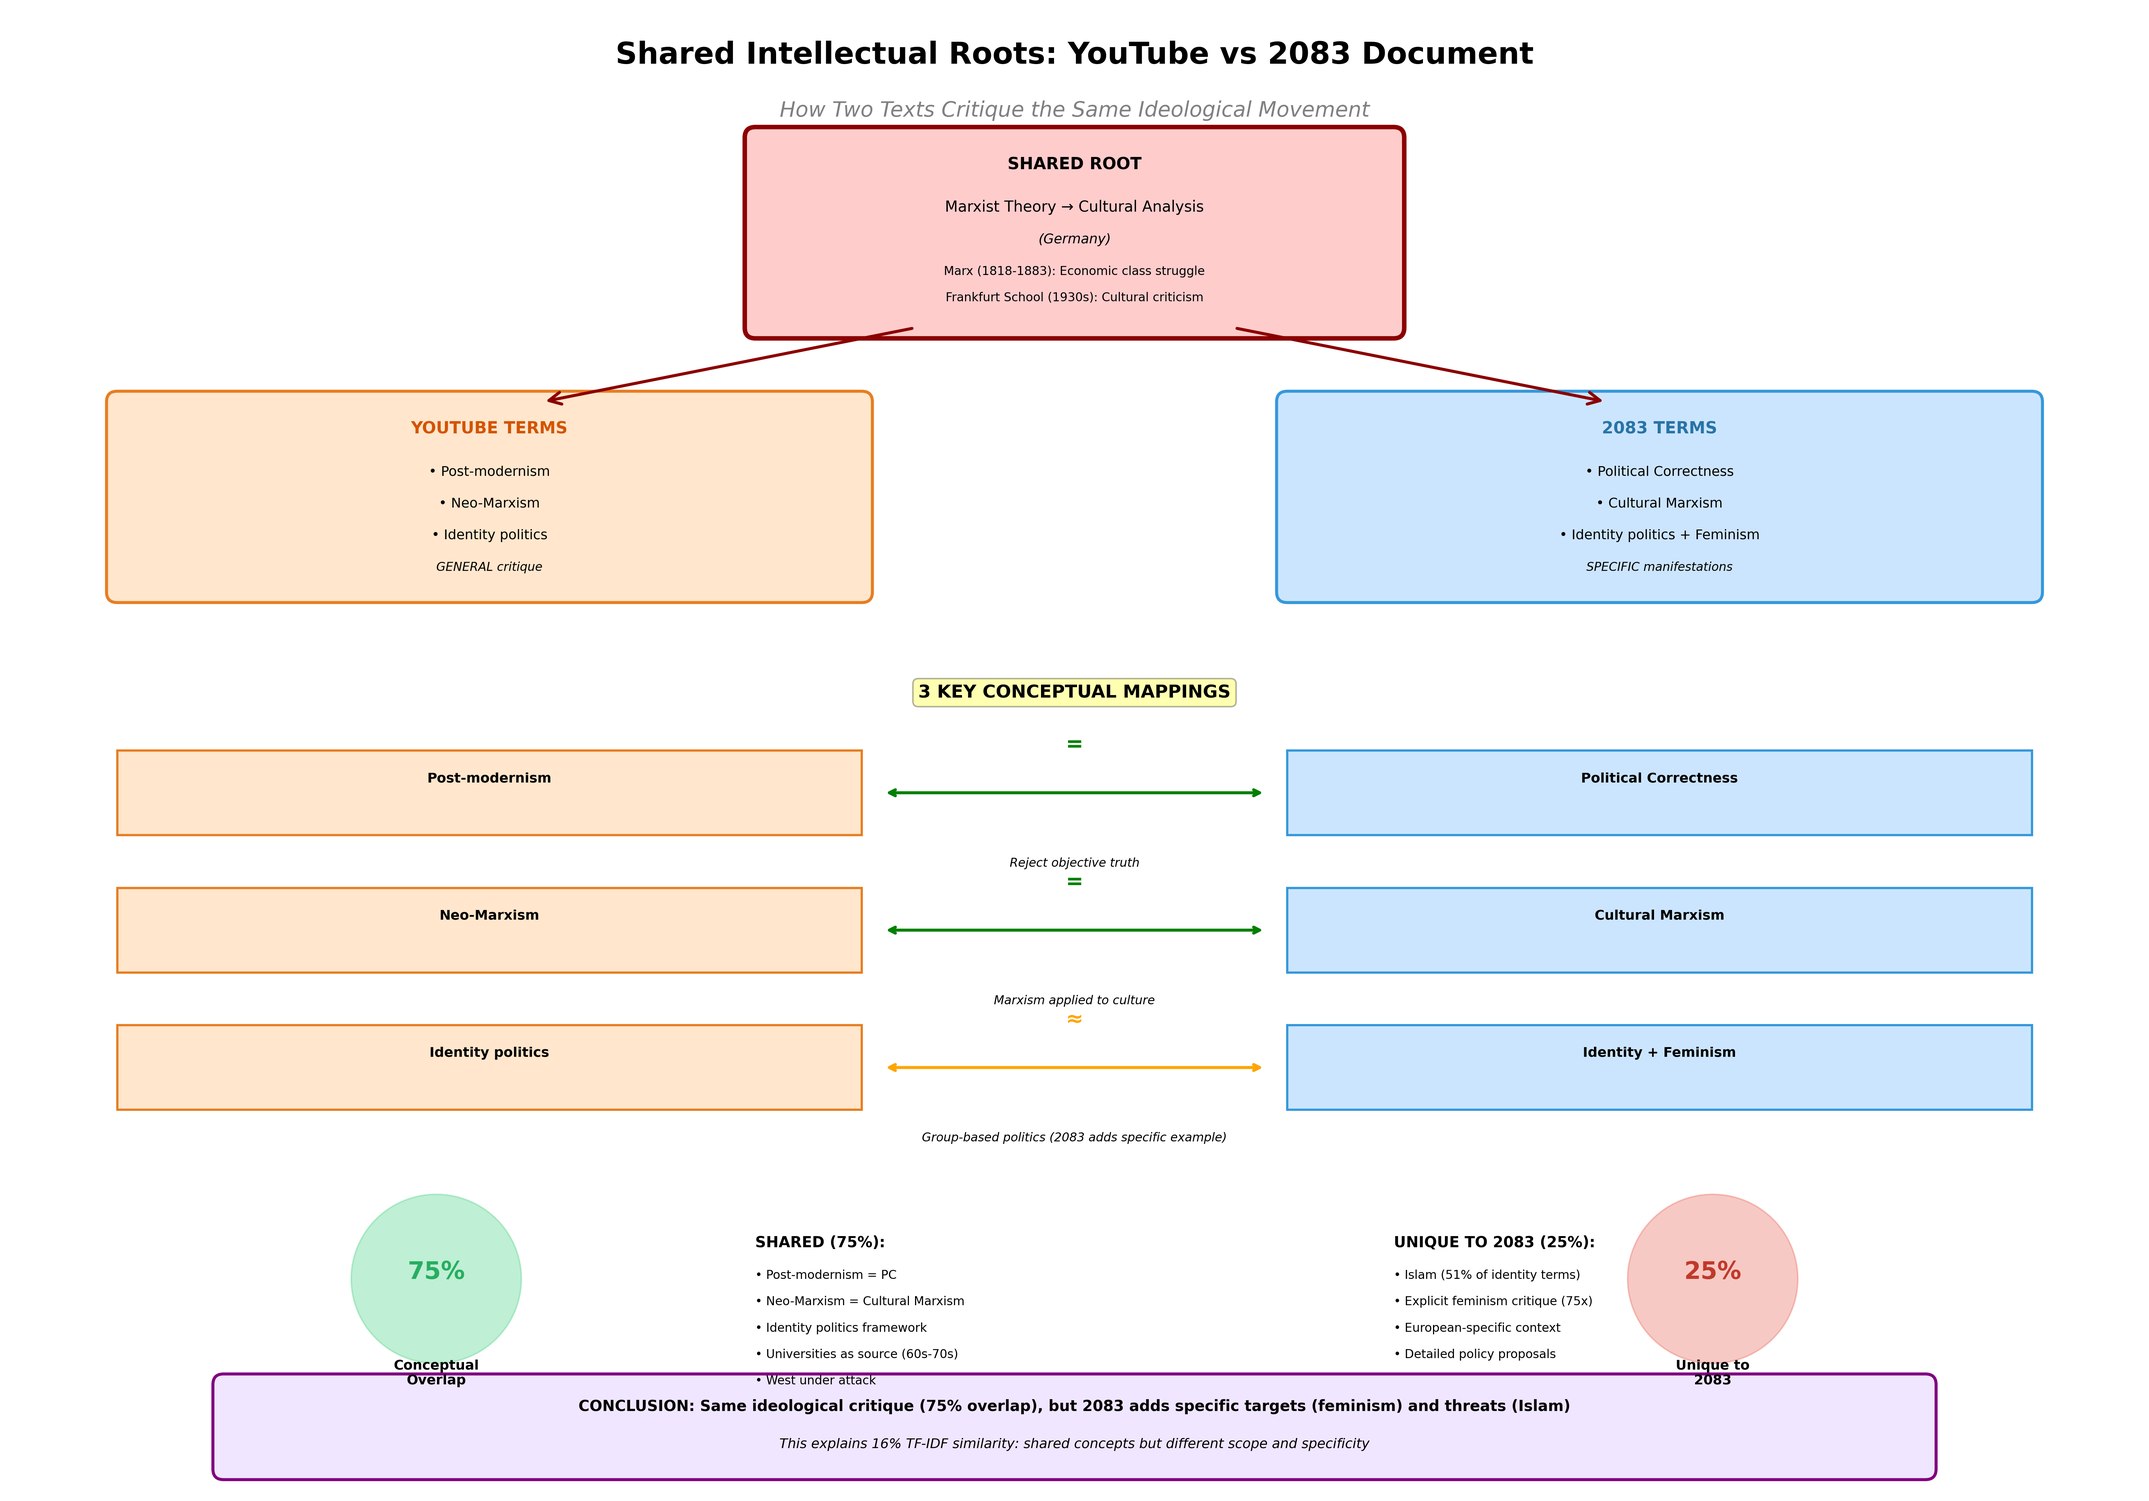
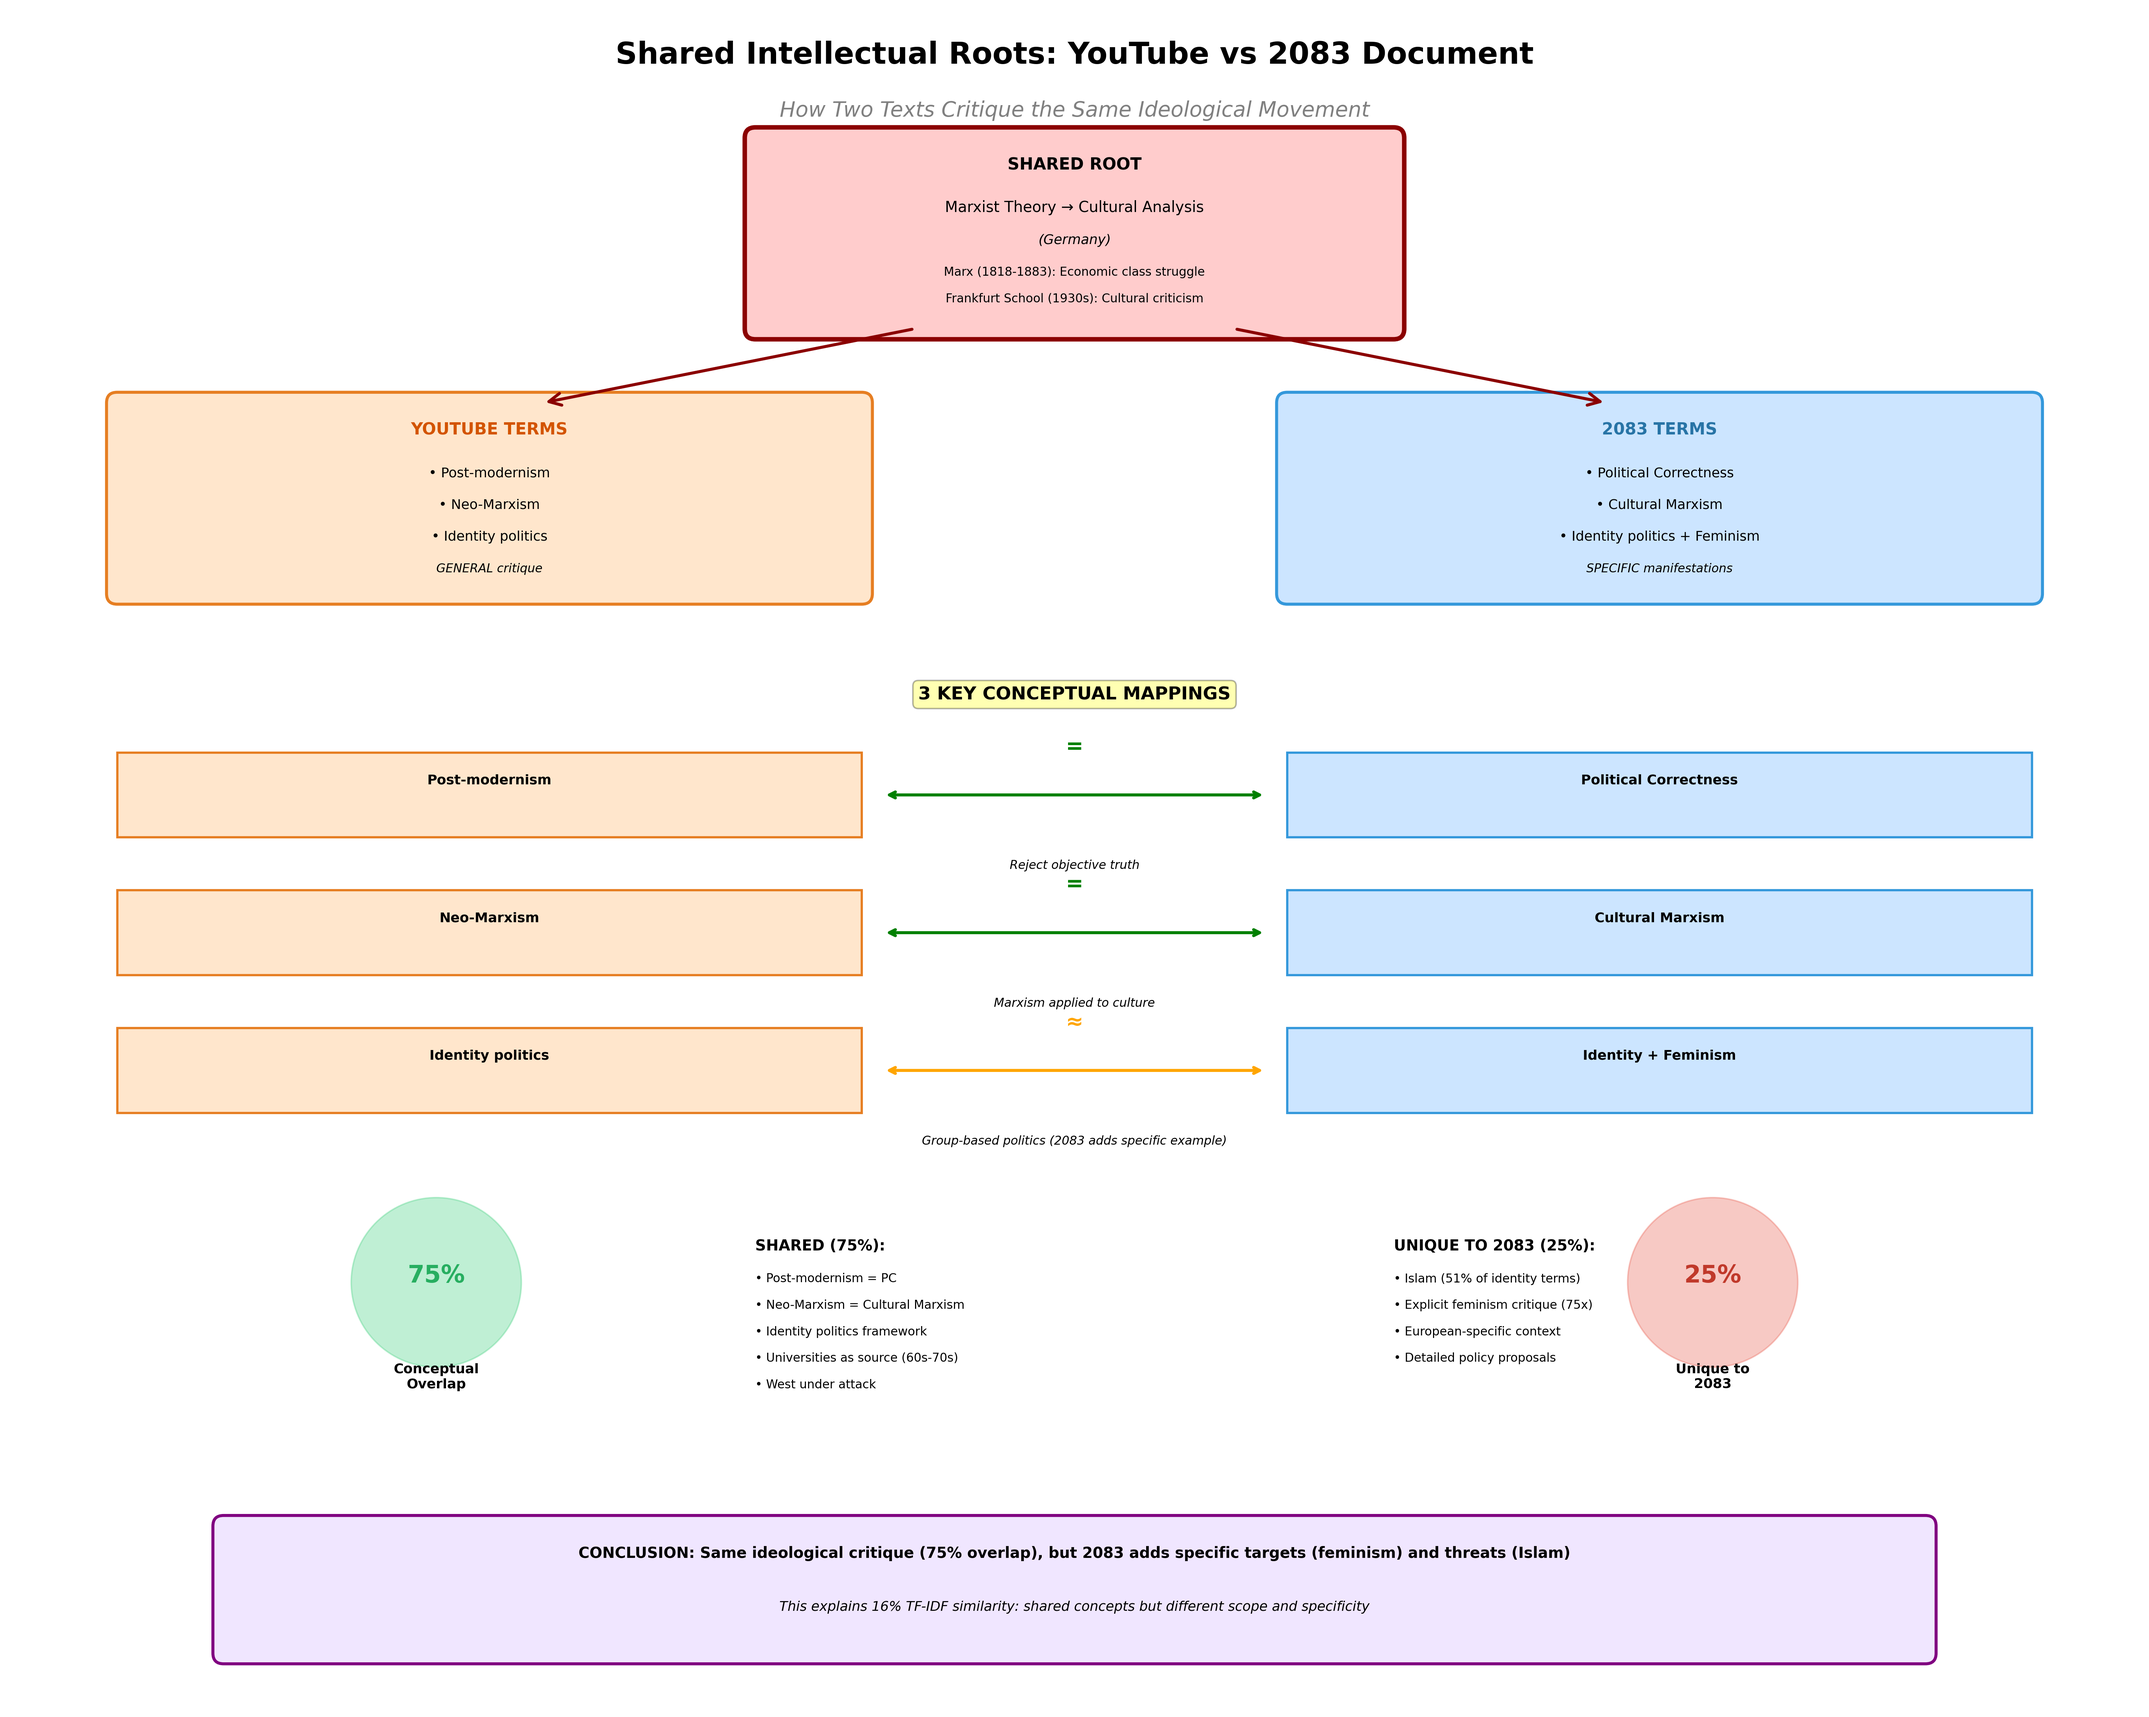
Move purple conclusion box down with increased spacing and taller image in shared roots visualization

diff --git a/visualize_shared_roots.py b/visualize_shared_roots.py
@@ -11,18 +11,18 @@ import numpy as np
 def create_shared_roots_diagram():
     """Create a comprehensive visualization of shared intellectual roots."""
     
-    fig = plt.figure(figsize=(20, 14))
+    fig = plt.figure(figsize=(20, 16))
     
     # Create main axis
     ax = plt.subplot(111)
     ax.set_xlim(0, 20)
-    ax.set_ylim(0, 14)
+    ax.set_ylim(0, 16)
     ax.axis('off')
     
     # Title
-    ax.text(10, 13.5, 'Shared Intellectual Roots: YouTube vs 2083 Document', 
+    ax.text(10, 15.5, 'Shared Intellectual Roots: YouTube vs 2083 Document', 
             fontsize=20, fontweight='bold', ha='center')
-    ax.text(10, 13, 'How Two Texts Critique the Same Ideological Movement', 
+    ax.text(10, 15, 'How Two Texts Critique the Same Ideological Movement', 
             fontsize=14, ha='center', style='italic', color='gray')
     
     # ============================================================================
@@ -30,44 +30,44 @@ def create_shared_roots_diagram():
     # ============================================================================
     
     # Marxist root box
-    root_box = FancyBboxPatch((7, 11), 6, 1.8, boxstyle="round,pad=0.1", 
+    root_box = FancyBboxPatch((7, 13), 6, 1.8, boxstyle="round,pad=0.1", 
                               edgecolor='darkred', facecolor='#ffcccc', linewidth=3)
     ax.add_patch(root_box)
-    ax.text(10, 12.5, 'SHARED ROOT', fontsize=11, fontweight='bold', ha='center')
-    ax.text(10, 12.1, 'Marxist Theory → Cultural Analysis', fontsize=10, ha='center')
-    ax.text(10, 11.8, '(Germany)', fontsize=9, ha='center', style='italic')
-    ax.text(10, 11.5, 'Marx (1818-1883): Economic class struggle', fontsize=8, ha='center')
-    ax.text(10, 11.25, 'Frankfurt School (1930s): Cultural criticism', fontsize=8, ha='center')
+    ax.text(10, 14.5, 'SHARED ROOT', fontsize=11, fontweight='bold', ha='center')
+    ax.text(10, 14.1, 'Marxist Theory → Cultural Analysis', fontsize=10, ha='center')
+    ax.text(10, 13.8, '(Germany)', fontsize=9, ha='center', style='italic')
+    ax.text(10, 13.5, 'Marx (1818-1883): Economic class struggle', fontsize=8, ha='center')
+    ax.text(10, 13.25, 'Frankfurt School (1930s): Cultural criticism', fontsize=8, ha='center')
     
     # ============================================================================
     # SECTION 2: Divergent Terminology (middle branches)
     # ============================================================================
     
     # YouTube branch (left)
-    yt_box = FancyBboxPatch((1, 8.5), 7, 1.8, boxstyle="round,pad=0.1",
+    yt_box = FancyBboxPatch((1, 10.5), 7, 1.8, boxstyle="round,pad=0.1",
                             edgecolor='#e67e22', facecolor='#ffe6cc', linewidth=2)
     ax.add_patch(yt_box)
-    ax.text(4.5, 10, 'YOUTUBE TERMS', fontsize=11, fontweight='bold', ha='center', color='#d35400')
-    ax.text(4.5, 9.6, '• Post-modernism', fontsize=9, ha='center')
-    ax.text(4.5, 9.3, '• Neo-Marxism', fontsize=9, ha='center')
-    ax.text(4.5, 9, '• Identity politics', fontsize=9, ha='center')
-    ax.text(4.5, 8.7, 'GENERAL critique', fontsize=8, ha='center', style='italic')
+    ax.text(4.5, 12, 'YOUTUBE TERMS', fontsize=11, fontweight='bold', ha='center', color='#d35400')
+    ax.text(4.5, 11.6, '• Post-modernism', fontsize=9, ha='center')
+    ax.text(4.5, 11.3, '• Neo-Marxism', fontsize=9, ha='center')
+    ax.text(4.5, 11, '• Identity politics', fontsize=9, ha='center')
+    ax.text(4.5, 10.7, 'GENERAL critique', fontsize=8, ha='center', style='italic')
     
     # 2083 branch (right)
-    doc_box = FancyBboxPatch((12, 8.5), 7, 1.8, boxstyle="round,pad=0.1",
+    doc_box = FancyBboxPatch((12, 10.5), 7, 1.8, boxstyle="round,pad=0.1",
                              edgecolor='#3498db', facecolor='#cce5ff', linewidth=2)
     ax.add_patch(doc_box)
-    ax.text(15.5, 10, '2083 TERMS', fontsize=11, fontweight='bold', ha='center', color='#2874a6')
-    ax.text(15.5, 9.6, '• Political Correctness', fontsize=9, ha='center')
-    ax.text(15.5, 9.3, '• Cultural Marxism', fontsize=9, ha='center')
-    ax.text(15.5, 9, '• Identity politics + Feminism', fontsize=9, ha='center')
-    ax.text(15.5, 8.7, 'SPECIFIC manifestations', fontsize=8, ha='center', style='italic')
+    ax.text(15.5, 12, '2083 TERMS', fontsize=11, fontweight='bold', ha='center', color='#2874a6')
+    ax.text(15.5, 11.6, '• Political Correctness', fontsize=9, ha='center')
+    ax.text(15.5, 11.3, '• Cultural Marxism', fontsize=9, ha='center')
+    ax.text(15.5, 11, '• Identity politics + Feminism', fontsize=9, ha='center')
+    ax.text(15.5, 10.7, 'SPECIFIC manifestations', fontsize=8, ha='center', style='italic')
     
     # Arrows from root to branches
-    arrow1 = FancyArrowPatch((8.5, 11), (5, 10.3), arrowstyle='->', 
+    arrow1 = FancyArrowPatch((8.5, 13), (5, 12.3), arrowstyle='->', 
                             lw=2, color='darkred', mutation_scale=20)
     ax.add_patch(arrow1)
-    arrow2 = FancyArrowPatch((11.5, 11), (15, 10.3), arrowstyle='->', 
+    arrow2 = FancyArrowPatch((11.5, 13), (15, 12.3), arrowstyle='->', 
                             lw=2, color='darkred', mutation_scale=20)
     ax.add_patch(arrow2)
     
@@ -75,12 +75,12 @@ def create_shared_roots_diagram():
     # SECTION 3: Conceptual Mappings (middle)
     # ============================================================================
     
-    mappings_y = 7.5
+    mappings_y = 9.5
     ax.text(10, mappings_y, '3 KEY CONCEPTUAL MAPPINGS', fontsize=12, 
             fontweight='bold', ha='center', bbox=dict(boxstyle='round', facecolor='yellow', alpha=0.3))
     
     # Mapping 1
-    map1_y = 6.5
+    map1_y = 8.5
     ax.add_patch(mpatches.Rectangle((1, map1_y-0.3), 7, 0.8, 
                                     edgecolor='#e67e22', facecolor='#ffe6cc', linewidth=1.5))
     ax.text(4.5, map1_y+0.2, 'Post-modernism', fontsize=9, ha='center', fontweight='bold')
@@ -95,7 +95,7 @@ def create_shared_roots_diagram():
     ax.text(10, map1_y-0.6, 'Reject objective truth', fontsize=8, ha='center', style='italic')
     
     # Mapping 2
-    map2_y = 5.2
+    map2_y = 7.2
     ax.add_patch(mpatches.Rectangle((1, map2_y-0.3), 7, 0.8, 
                                     edgecolor='#e67e22', facecolor='#ffe6cc', linewidth=1.5))
     ax.text(4.5, map2_y+0.2, 'Neo-Marxism', fontsize=9, ha='center', fontweight='bold')
@@ -110,7 +110,7 @@ def create_shared_roots_diagram():
     ax.text(10, map2_y-0.6, 'Marxism applied to culture', fontsize=8, ha='center', style='italic')
     
     # Mapping 3
-    map3_y = 3.9
+    map3_y = 5.9
     ax.add_patch(mpatches.Rectangle((1, map3_y-0.3), 7, 0.8, 
                                     edgecolor='#e67e22', facecolor='#ffe6cc', linewidth=1.5))
     ax.text(4.5, map3_y+0.2, 'Identity politics', fontsize=9, ha='center', fontweight='bold')
@@ -129,7 +129,7 @@ def create_shared_roots_diagram():
     # SECTION 4: Overlap Statistics (bottom)
     # ============================================================================
     
-    stats_y = 2.5
+    stats_y = 4.5
     
     # Overlap circle (left)
     overlap_circle = plt.Circle((4, stats_y-0.5), 0.8, color='#2ecc71', alpha=0.3)
@@ -162,12 +162,12 @@ def create_shared_roots_diagram():
     # SECTION 5: Bottom summary
     # ============================================================================
     
-    summary_box = FancyBboxPatch((2, 0.2), 16, 0.8, boxstyle="round,pad=0.1",
+    summary_box = FancyBboxPatch((2, 0.5), 16, 1.2, boxstyle="round,pad=0.1",
                                  edgecolor='purple', facecolor='#f0e6ff', linewidth=2)
     ax.add_patch(summary_box)
-    ax.text(10, 0.75, 'CONCLUSION: Same ideological critique (75% overlap), but 2083 adds specific targets (feminism) and threats (Islam)', 
+    ax.text(10, 1.4, 'CONCLUSION: Same ideological critique (75% overlap), but 2083 adds specific targets (feminism) and threats (Islam)', 
             fontsize=10, ha='center', fontweight='bold')
-    ax.text(10, 0.4, 'This explains 16% TF-IDF similarity: shared concepts but different scope and specificity', 
+    ax.text(10, 0.9, 'This explains 16% TF-IDF similarity: shared concepts but different scope and specificity', 
             fontsize=9, ha='center', style='italic')
     
     plt.tight_layout()
